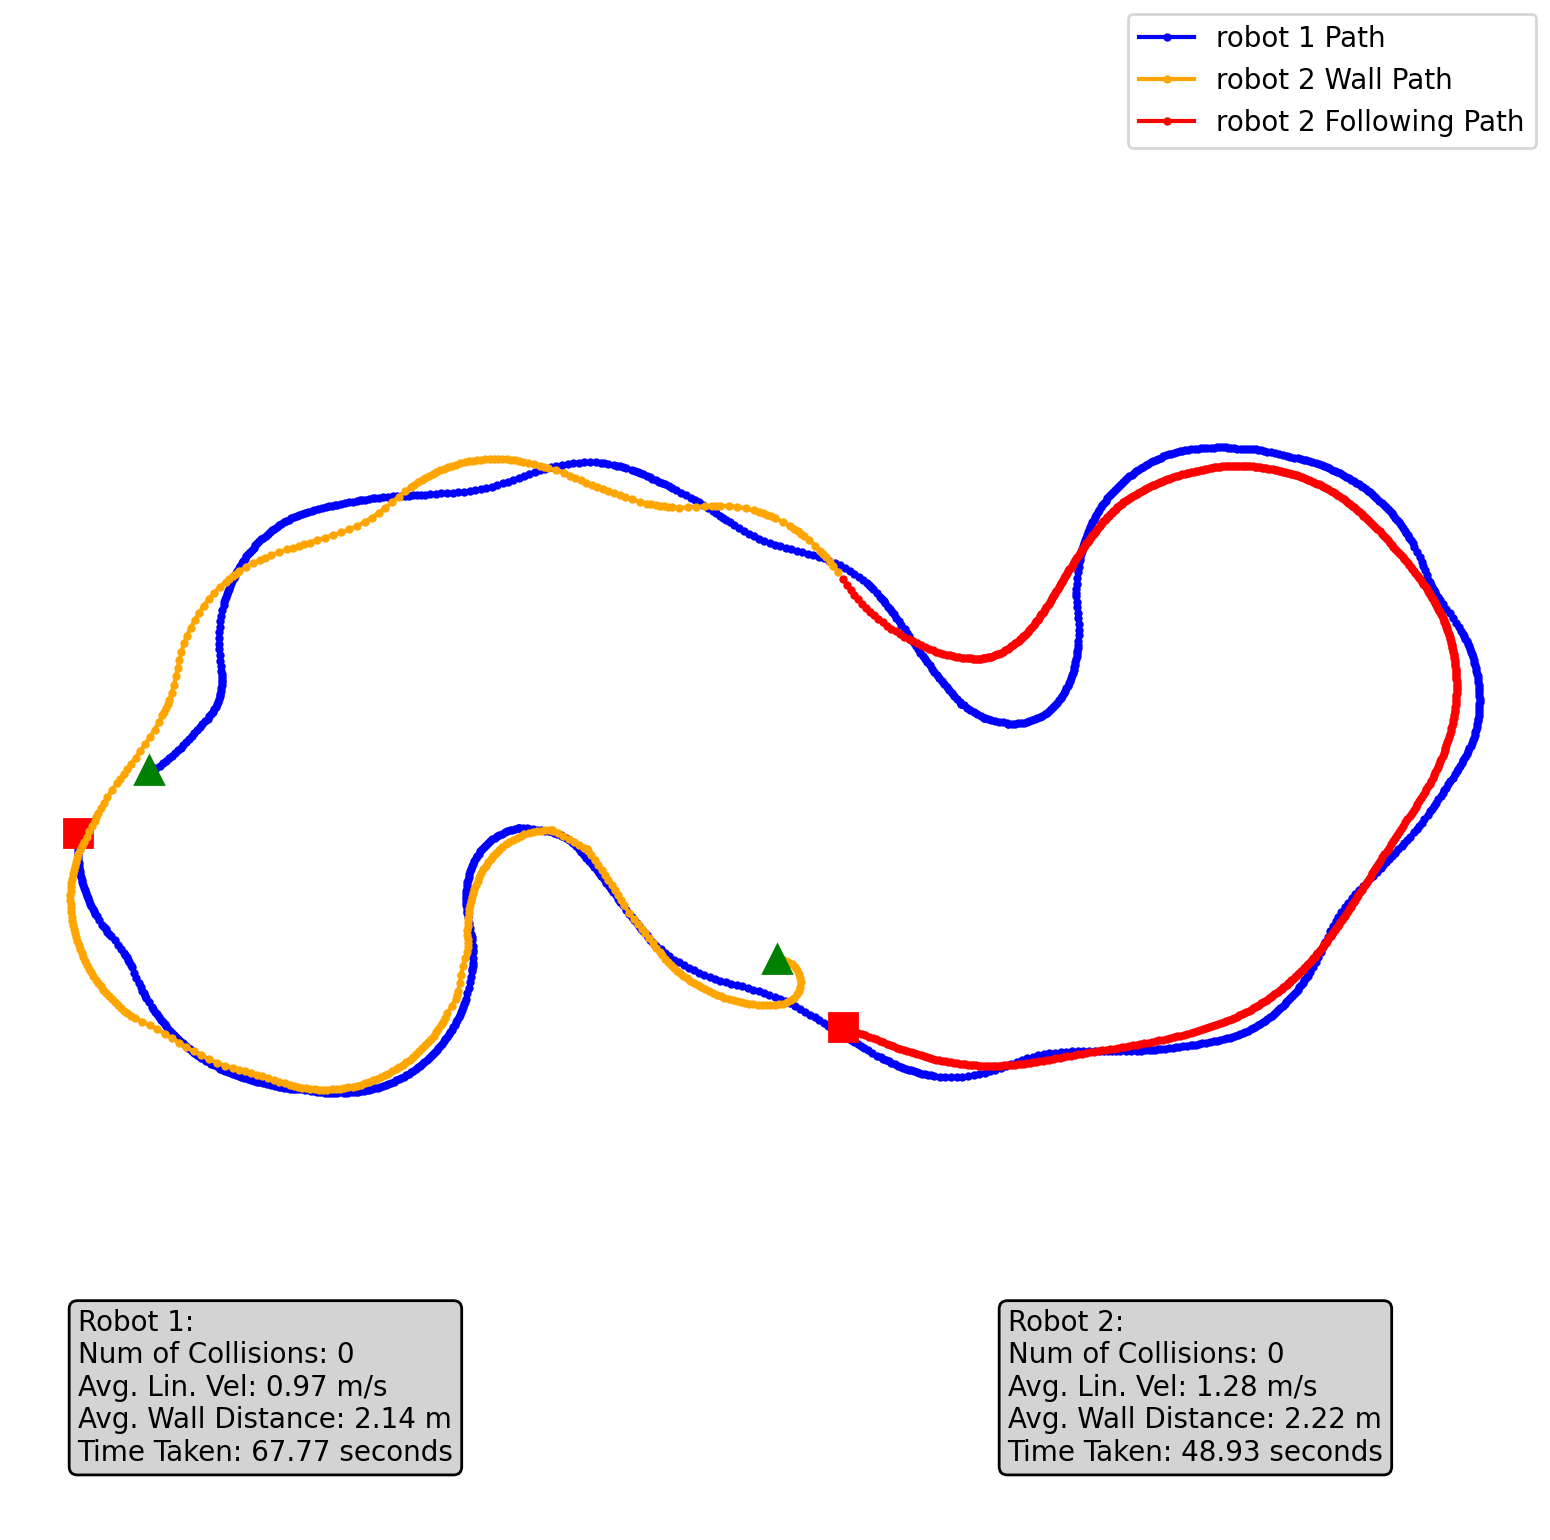
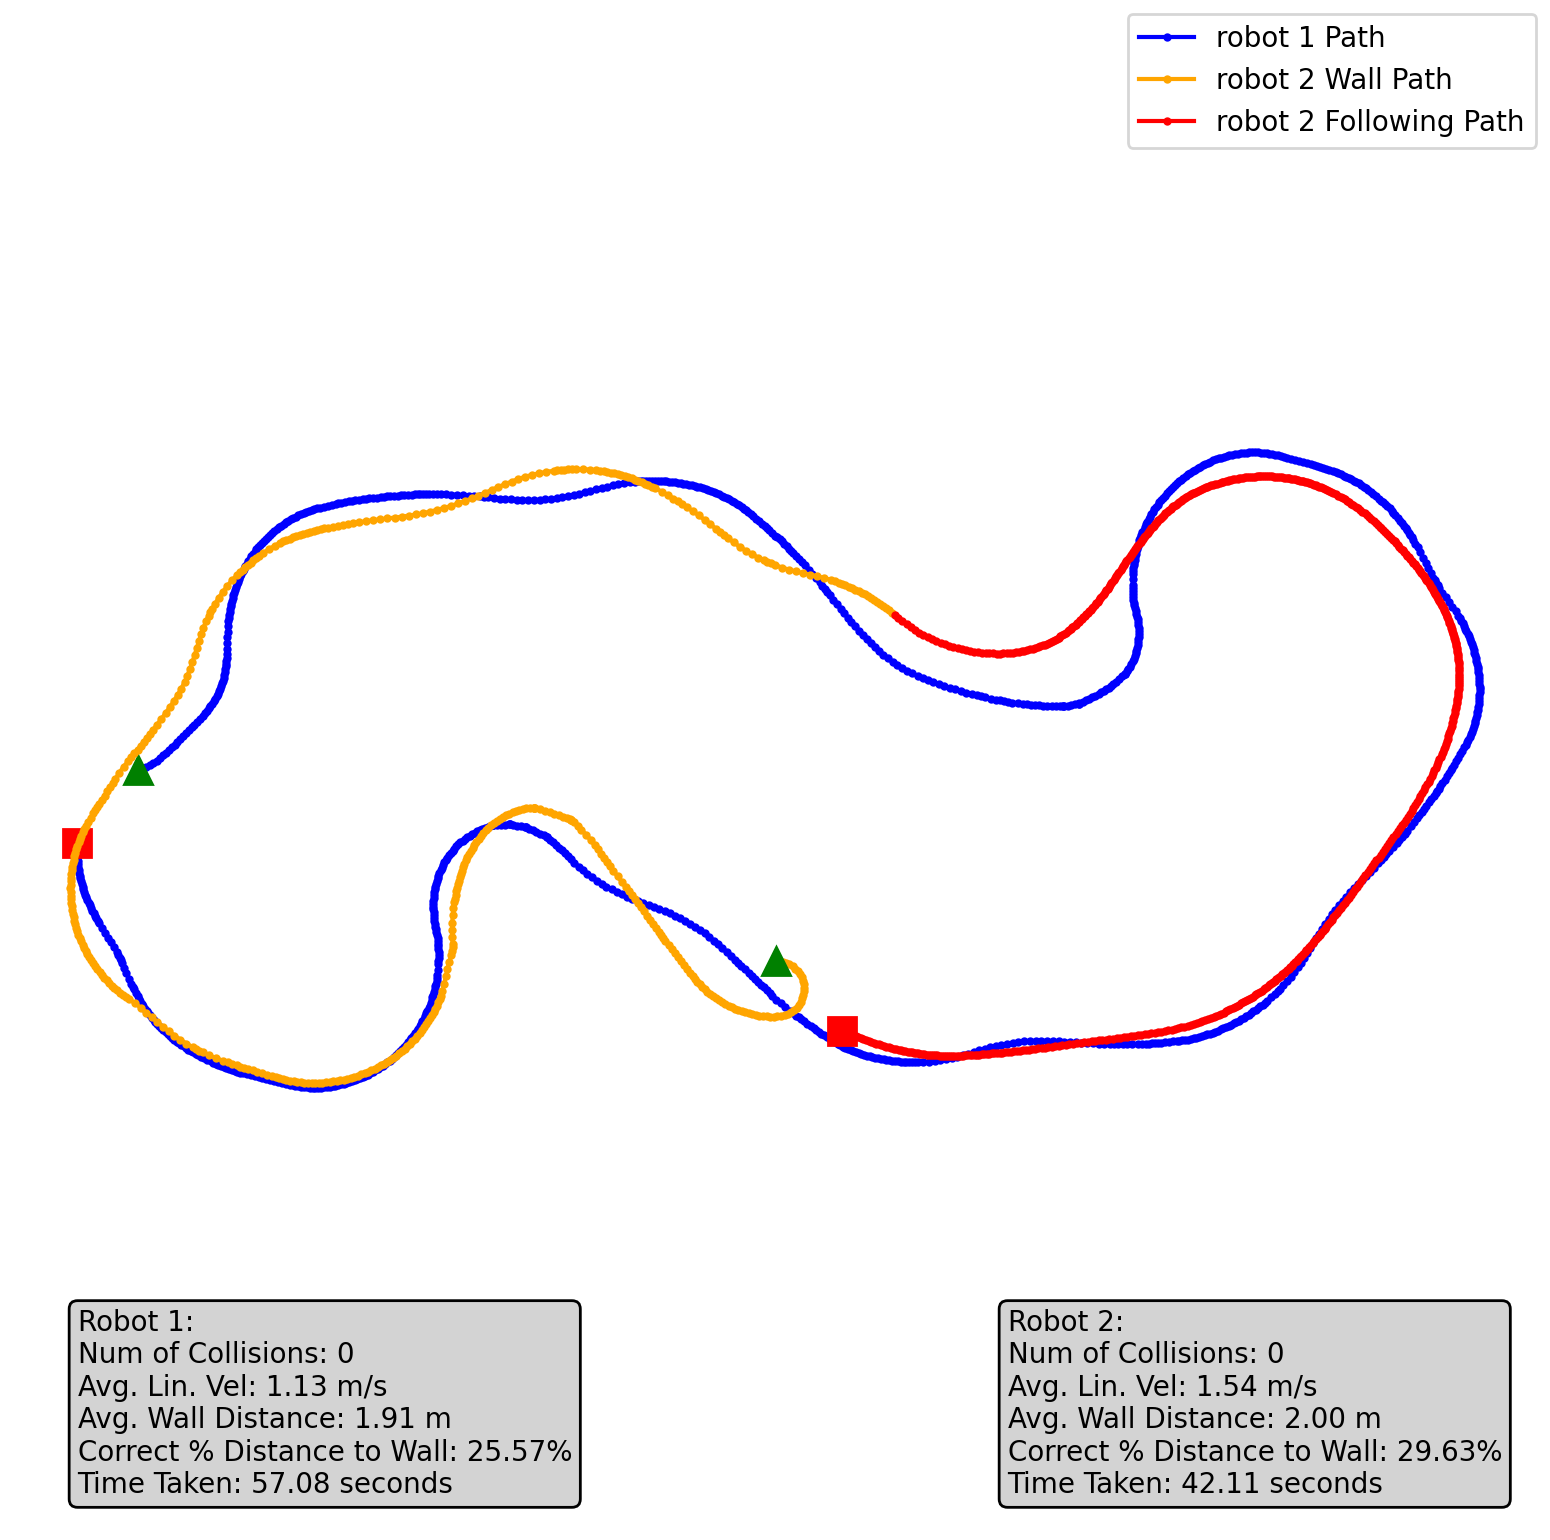
Added correct distance wall %

diff --git a/workspace/src/robots/statistics.py b/workspace/src/robots/statistics.py
@@ -18,7 +18,8 @@ def extract_data(file_name):
     time_taken_pattern = r'\[Time Taken\]: ([\d.]+) seconds'
     started_following_time_pattern = r'\[Started Following Time\]: ([\d.]+) seconds'
     started_following_pos_pattern = r'\[Started Following Pos\]: \(([-\d.]+), ([-\d.]+)\)'
-
+    correct_percent_distance_wall_pattern = r'\[Correct % Distance to Wall\]: ([\d.]+)'
+    
     # Extract start, end, and path
     start_match = re.search(start_pattern, data)
     end_match = re.search(end_pattern, data)
@@ -29,6 +30,7 @@ def extract_data(file_name):
     time_taken_match = re.search(time_taken_pattern, data)
     started_following_pos_match = re.search(started_following_pos_pattern, data)
     started_following_time_match = re.search(started_following_time_pattern, data)
+    correct_percentage_distance_wall = re.search(correct_percent_distance_wall_pattern, data)
 
     # Convert start and end positions to tuples
     start_position = (float(start_match.group(1)), float(start_match.group(2))) if start_match else None
@@ -45,6 +47,8 @@ def extract_data(file_name):
 
     started_following_pos = (float(started_following_pos_match.group(1)), float(started_following_pos_match.group(2))) if started_following_pos_match else None
     started_following_time = float(started_following_time_match.group(1)) if started_following_time_match else None
+    
+    correct_percentage_distance_wall = correct_percentage_distance_wall.group(1) if correct_percentage_distance_wall else 'N/A'
 
     return {
         'start_position': start_position,
@@ -55,7 +59,8 @@ def extract_data(file_name):
         'avg_distance_wall': avg_distance_wall,
         'time_taken': time_taken,
         'started_following_pos': started_following_pos,
-        'started_following_time': started_following_time
+        'started_following_time': started_following_time,
+        'correct_percentage_distance_wall': correct_percentage_distance_wall
     }
 
 # Helper function to find the index of the closest point to a given position
@@ -124,6 +129,7 @@ def main():
         f"Num of Collisions: {robot1_data['num_collisions']}\n"
         f"Avg. Lin. Vel: {robot1_data['avg_velocity']} m/s\n"
         f"Avg. Wall Distance: {robot1_data['avg_distance_wall']} m\n"
+        f"Correct % Distance to Wall: {robot1_data['correct_percentage_distance_wall']}%\n"
         f"Time Taken: {robot1_data['time_taken']} seconds"
     )
 
@@ -133,6 +139,7 @@ def main():
         f"Num of Collisions: {robot2_data['num_collisions']}\n"
         f"Avg. Lin. Vel: {robot2_data['avg_velocity']} m/s\n"
         f"Avg. Wall Distance: {robot2_data['avg_distance_wall']} m\n"
+        f"Correct % Distance to Wall: {robot2_data['correct_percentage_distance_wall']}%\n"
         f"Time Taken: {robot2_data['time_taken']} seconds"
     )
 

diff --git a/workspace/src/robots/generic_controller.py b/workspace/src/robots/generic_controller.py
@@ -51,7 +51,6 @@ class GenericController(Node):
         msg.linear.x = float(linear) * self.speed_multiplier
         msg.angular.z = float(angular) * self.speed_multiplier
         self.vel_pub.publish(msg)
-        self.velocities.append(linear)
         
     def angle_from_index(self, index):
         num_rays = len(self.rays_r1)
@@ -110,6 +109,7 @@ class GenericController(Node):
         self.stats_file.write(f'[Number of Collisions]: {self.num_collisions}\n')
         self.stats_file.write(f'[Average Velocity]: {sum(self.velocities) / len(self.velocities):.2f}\n')
         self.stats_file.write(f'[Average Distance to Wall]: {sum(self.distances_to_wall) / len(self.distances_to_wall):.2f}\n')
+        self.stats_file.write(f'[Correct % Distance to Wall]: {len([x for x in self.distances_to_wall if x < IDEAL_DISTANCE + IDEAL_DISTANCE_TOLERANCE and x > IDEAL_DISTANCE - IDEAL_DISTANCE_TOLERANCE]) / len(self.distances_to_wall) * 100:.2f}%\n')
         self.stats_file.write(f'[Time Taken]: {time.time() - self.startTime:.2f} seconds\n')
         self.stats_file.write(f'[Path]: {self.pos_path}\n')
         if self.isFollowingStartPos:

diff --git a/workspace/src/robots/params.py b/workspace/src/robots/params.py
@@ -9,11 +9,11 @@ SPEED_DIFF2 = 1.80 # 80% faster in both linear and angular speeds than robot 1
 FOLLOW_DISTANCE = 3.5 # if robot 1 is at less than this distance, robot 2 will follow it
 
 # Linear & Angular Max Speed
-LIN_VEL_MAX = 1.85
+LIN_VEL_MAX = 1.8
 ANG_VEL_MAX = 2 * math.pi / 3
 
 # Distance to wall
-IDEAL_DISTANCE = 2
+IDEAL_DISTANCE = 1.75
 IDEAL_DISTANCE_TOLERANCE = 0.25
 
 # Finish point radius
